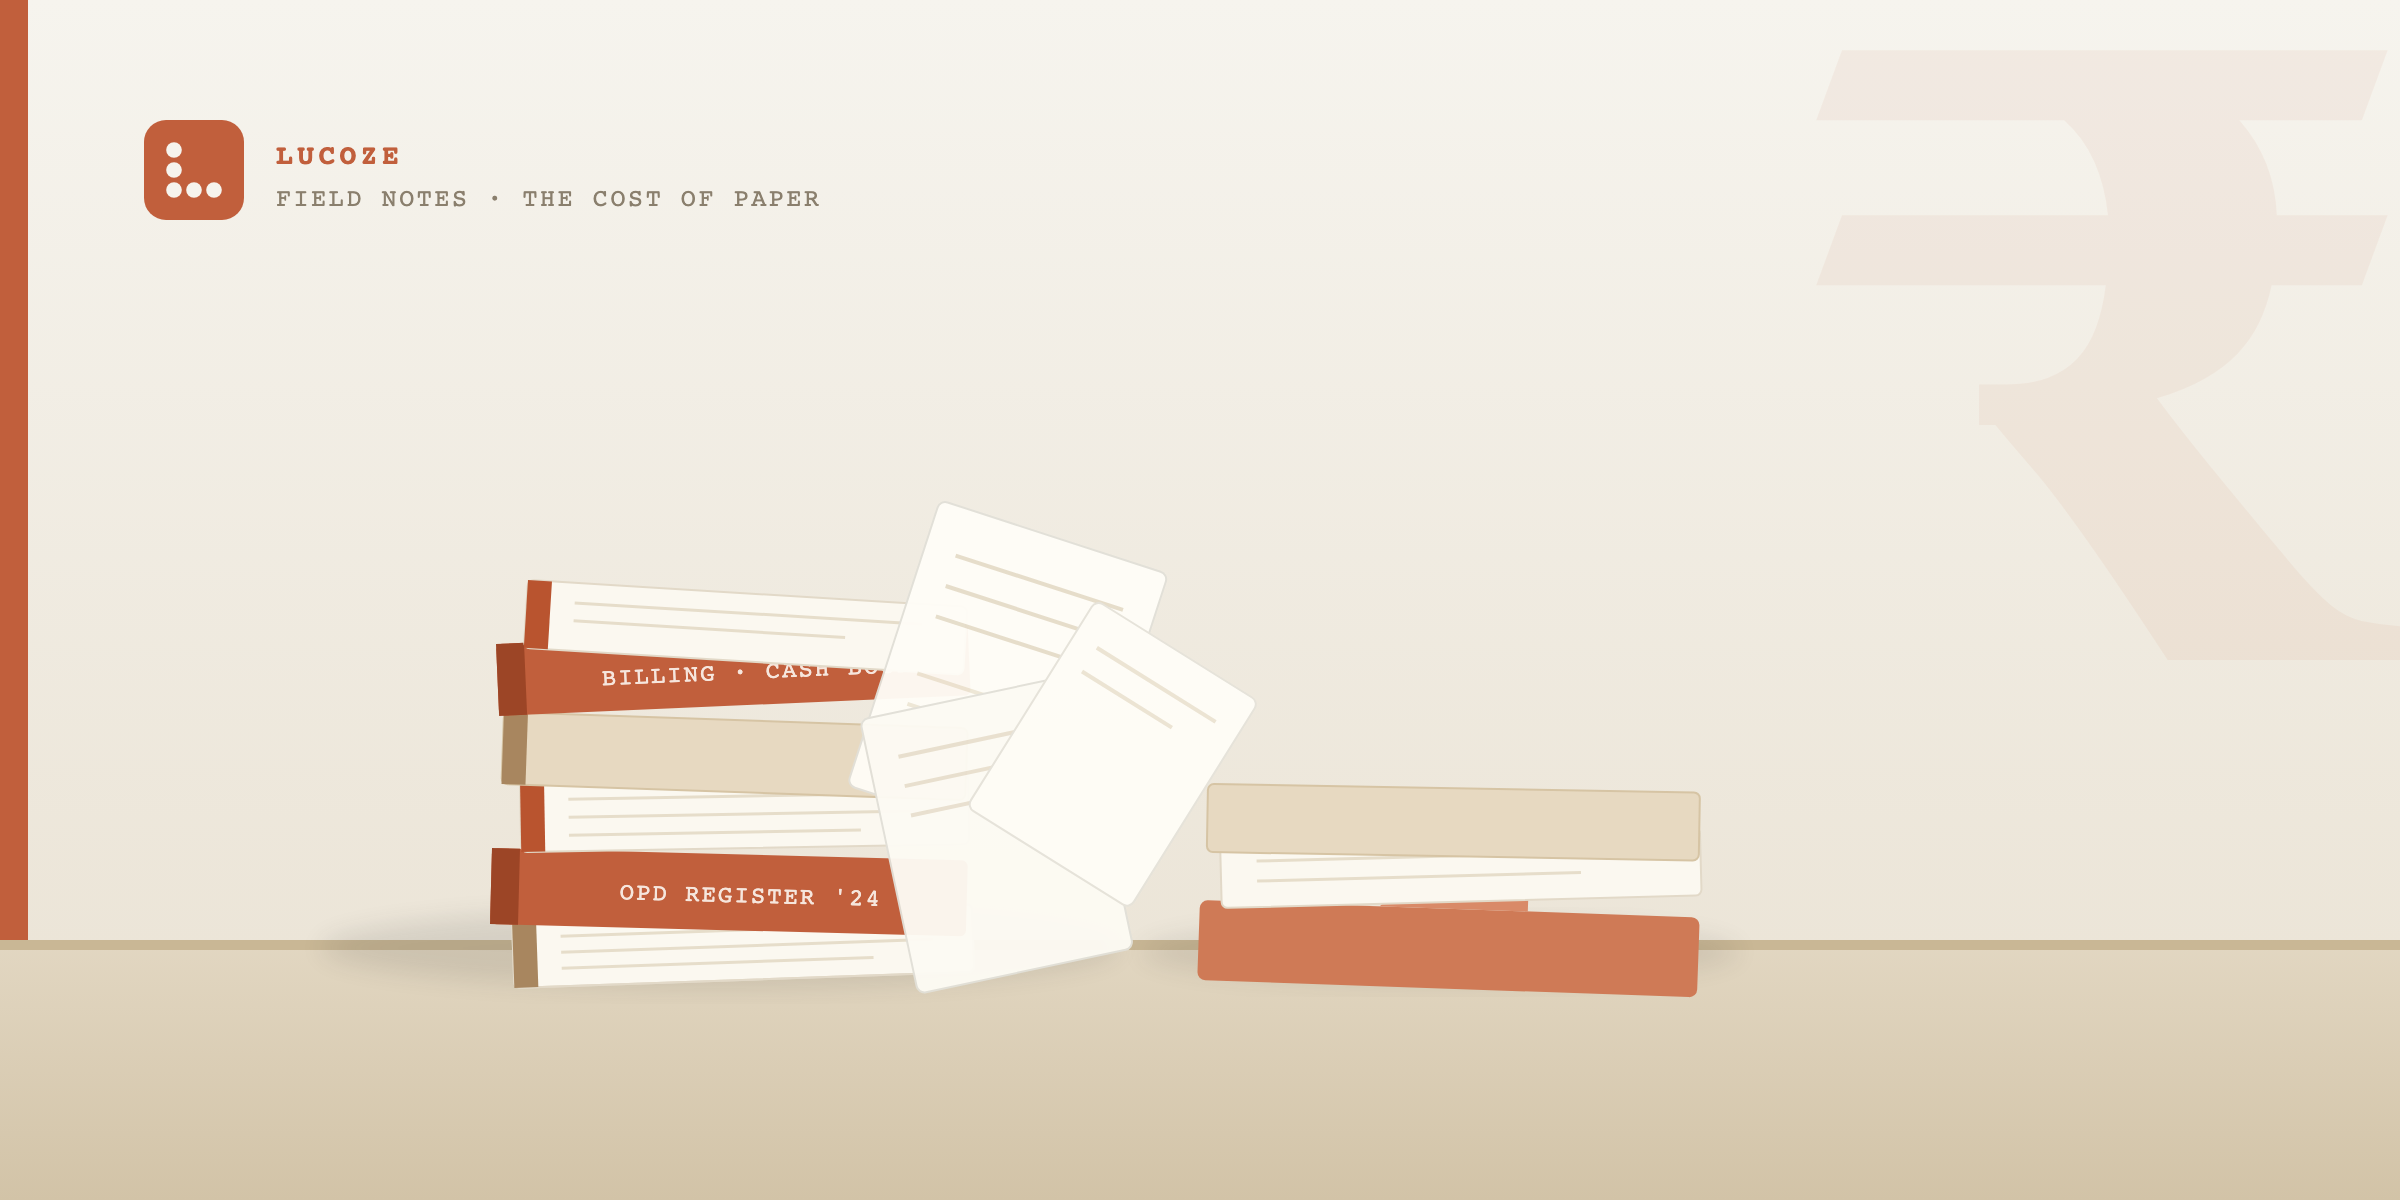
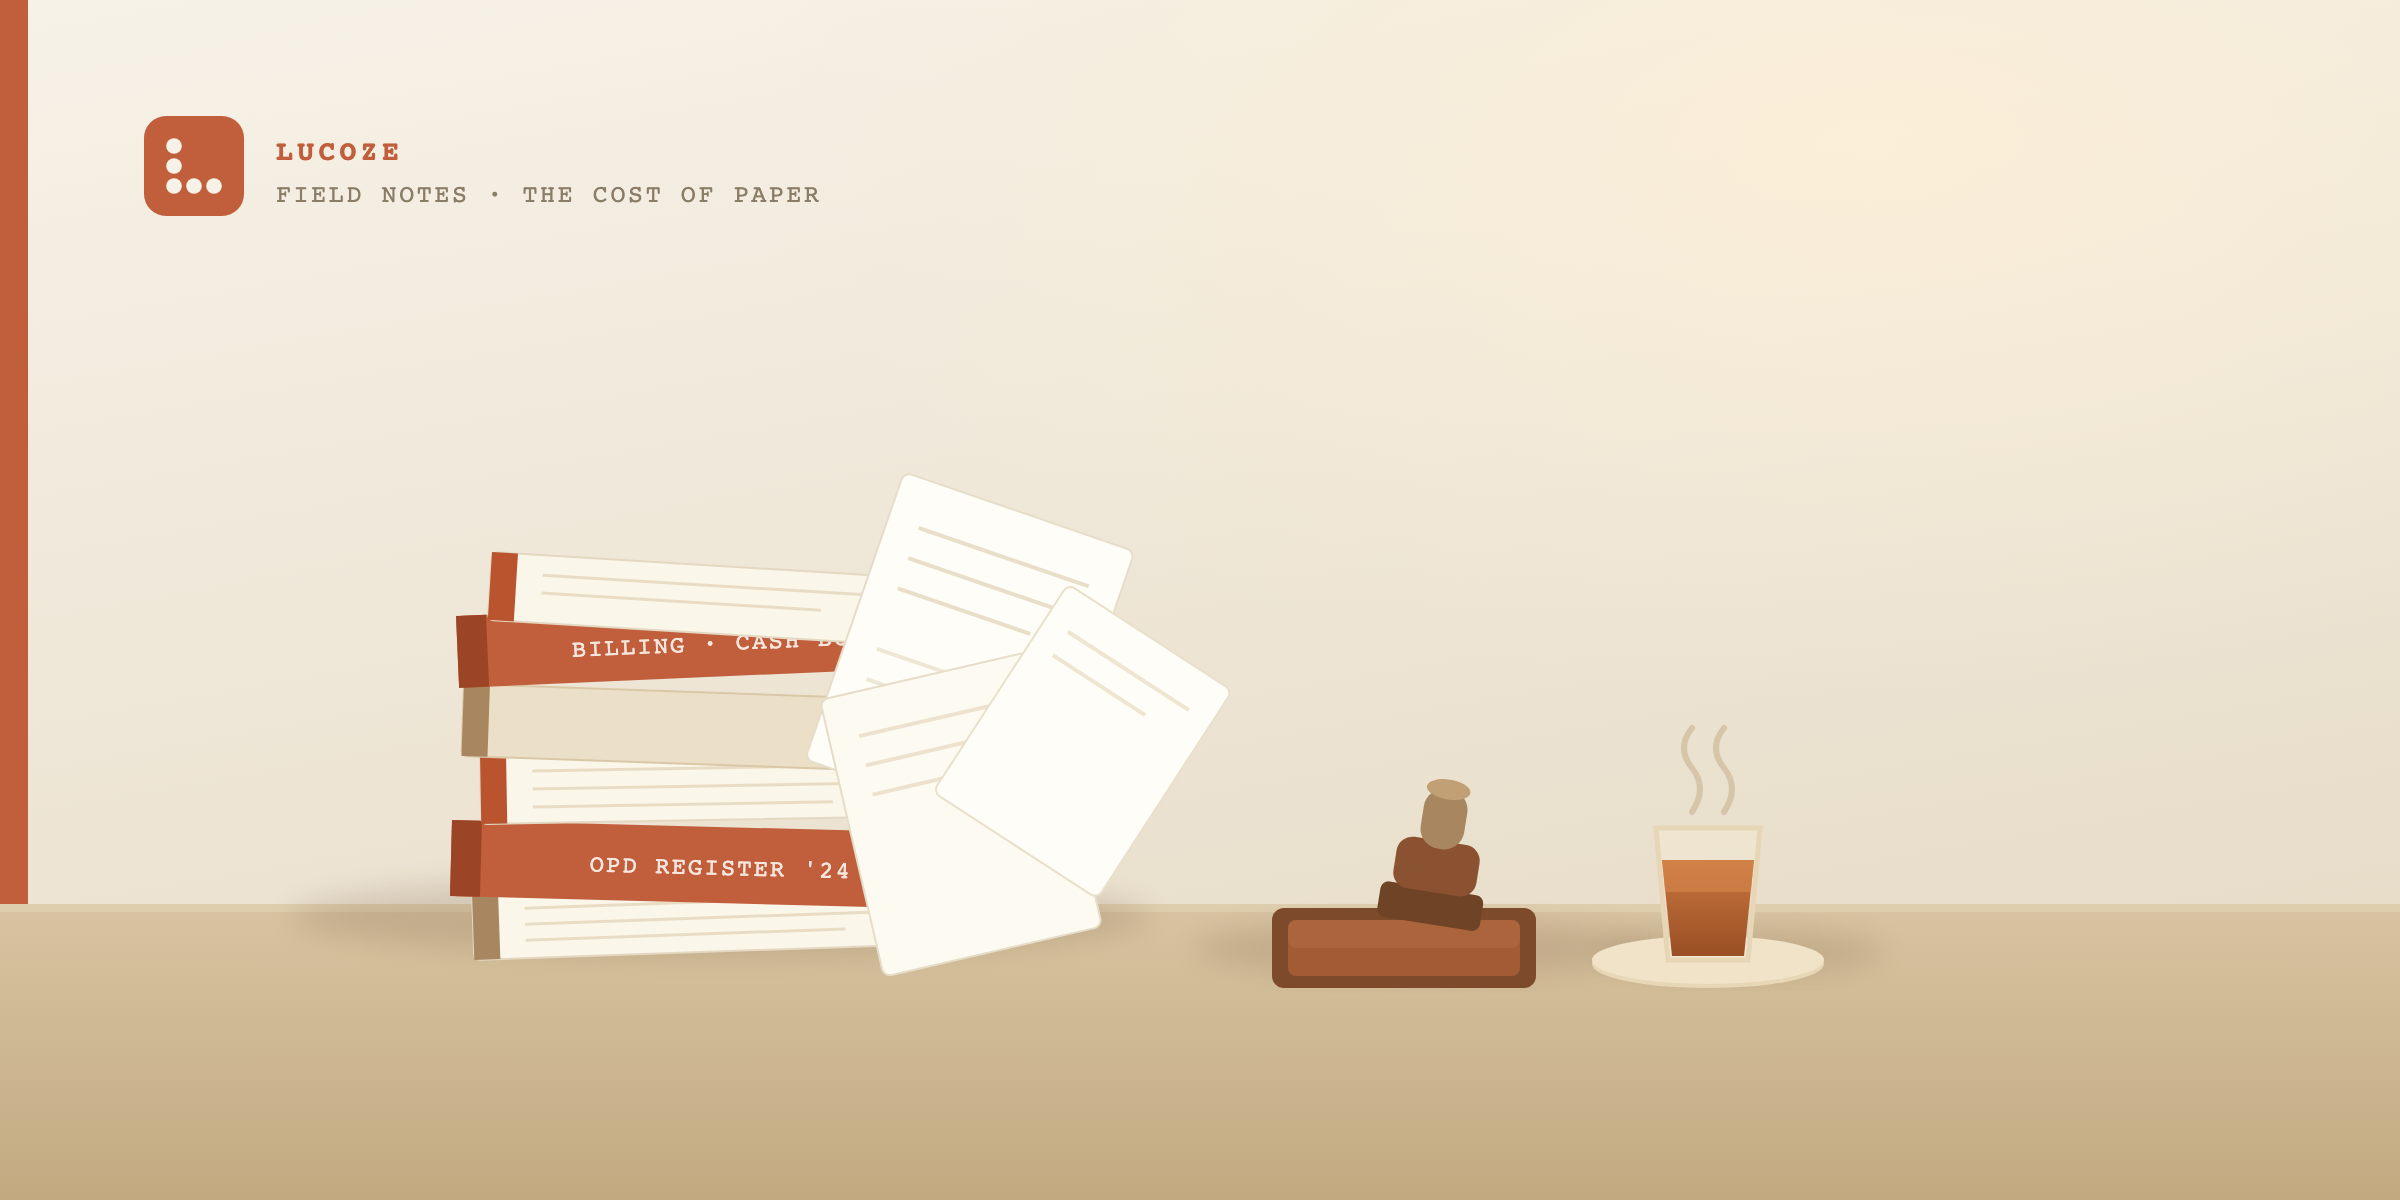
style(blog): warmer, balanced Lane-B illustration (chai + stamp vignette)
Window-light glow, cohesive desk vignette (registers -> spilling records ->
rubber stamp -> cutting-chai glass with steam) + intentional breathing room.
Ties to the post's 'over chai' voice. Re-rendered hero PNG.

diff --git a/scripts/hero-render/hidden-cost-of-paper.source.html b/scripts/hero-render/hidden-cost-of-paper.source.html
@@ -22,48 +22,43 @@
 				width="1200"
 				height="600"
 				role="img"
-				aria-label="A precarious stack of paper registers and loose patient records on a clinic desk — the hidden cost of paper."
+				aria-label="A clinic desk at dusk: a precarious stack of paper OPD registers and cash books with loose records slipping out, a rubber stamp on an ink pad, and a glass of chai — the hidden cost of running a clinic on paper."
 			>
 				<defs>
-					<linearGradient id="bg" x1="0" y1="0" x2="0" y2="1">
-						<stop offset="0" stop-color="#f6f4ee" />
-						<stop offset="1" stop-color="#e9e1d2" />
+					<linearGradient id="bg" x1="0" y1="0" x2="0.35" y2="1">
+						<stop offset="0" stop-color="#f7f2e8" />
+						<stop offset="1" stop-color="#e7dcc8" />
 					</linearGradient>
+					<radialGradient id="glow" cx="0.78" cy="0.12" r="0.85">
+						<stop offset="0" stop-color="#fcefd8" stop-opacity="0.9" />
+						<stop offset="0.55" stop-color="#f7ecd7" stop-opacity="0" />
+					</radialGradient>
 					<linearGradient id="desk" x1="0" y1="0" x2="0" y2="1">
-						<stop offset="0" stop-color="#e2d7c2" />
-						<stop offset="1" stop-color="#d2c3a7" />
+						<stop offset="0" stop-color="#d8c4a2" />
+						<stop offset="1" stop-color="#c2a980" />
 					</linearGradient>
-					<filter id="soft" x="-20%" y="-20%" width="140%" height="140%">
-						<feGaussianBlur stdDeviation="6" />
+					<linearGradient id="chai" x1="0" y1="0" x2="0" y2="1">
+						<stop offset="0" stop-color="#c8763f" />
+						<stop offset="1" stop-color="#9a4f24" />
+					</linearGradient>
+					<filter id="soft" x="-30%" y="-30%" width="160%" height="160%">
+						<feGaussianBlur stdDeviation="7" />
 					</filter>
 				</defs>
 
-				<!-- ground -->
+				<!-- ground + warm window light -->
 				<rect width="1200" height="600" fill="url(#bg)" />
+				<rect width="1200" height="600" fill="url(#glow)" />
 				<rect x="0" y="0" width="14" height="600" fill="#c15f3c" />
 
-				<!-- faint rupee watermark: the 'cost' -->
-				<text
-					x="1050"
-					y="330"
-					font-family="Georgia, serif"
-					font-size="440"
-					font-weight="700"
-					fill="#c15f3c"
-					opacity="0.06"
-					text-anchor="middle"
-				>
-					₹
-				</text>
-
 				<!-- eyebrow: vault mark + label -->
-				<g transform="translate(72 60)">
+				<g transform="translate(72 58)">
 					<rect x="0" y="0" width="50" height="50" rx="11" ry="11" fill="#c15f3c" />
-					<circle cx="15" cy="15" r="3.9" fill="#f6f4ee" />
-					<circle cx="15" cy="25" r="3.9" fill="#f6f4ee" />
-					<circle cx="15" cy="35" r="3.9" fill="#f6f4ee" />
-					<circle cx="25" cy="35" r="3.9" fill="#f6f4ee" />
-					<circle cx="35" cy="35" r="3.9" fill="#f6f4ee" />
+					<circle cx="15" cy="15" r="3.9" fill="#f7f2e8" />
+					<circle cx="15" cy="25" r="3.9" fill="#f7f2e8" />
+					<circle cx="15" cy="35" r="3.9" fill="#f7f2e8" />
+					<circle cx="25" cy="35" r="3.9" fill="#f7f2e8" />
+					<circle cx="35" cy="35" r="3.9" fill="#f7f2e8" />
 					<text
 						x="66"
 						y="22"
@@ -81,52 +76,59 @@
 						font-family="'JetBrains Mono', monospace"
 						font-size="12.5"
 						letter-spacing="1.3"
-						fill="#8a7f6d"
+						fill="#8a7d68"
 					>
 						FIELD NOTES · THE COST OF PAPER
 					</text>
 				</g>
 
 				<!-- desk surface -->
-				<rect x="0" y="470" width="1200" height="130" fill="url(#desk)" />
-				<rect x="0" y="470" width="1200" height="5" fill="#c9b795" />
+				<rect x="0" y="452" width="1200" height="148" fill="url(#desk)" />
+				<rect x="0" y="452" width="1200" height="4" fill="#e3d3b3" opacity="0.7" />
 
-				<!-- shadows -->
+				<!-- soft contact shadows -->
 				<ellipse
 					cx="360"
-					cy="474"
-					rx="200"
+					cy="458"
+					rx="215"
 					ry="20"
-					fill="#1f1d1a"
-					opacity="0.10"
+					fill="#5a3b22"
+					opacity="0.16"
 					filter="url(#soft)"
 				/>
 				<ellipse
-					cx="720"
+					cx="712"
+					cy="474"
+					rx="115"
+					ry="14"
+					fill="#5a3b22"
+					opacity="0.15"
+					filter="url(#soft)"
+				/>
+				<ellipse
+					cx="872"
 					cy="476"
-					rx="150"
-					ry="16"
-					fill="#1f1d1a"
-					opacity="0.09"
+					rx="70"
+					ry="12"
+					fill="#5a3b22"
+					opacity="0.14"
 					filter="url(#soft)"
 				/>
 
-				<!-- tall register stack (slightly askew, precarious) -->
-				<g transform="translate(250 210)">
-					<!-- each register: cover + page edge -->
+				<!-- tall register stack (askew, precarious) -->
+				<g transform="translate(230 196)">
 					<g transform="translate(6 250) rotate(-2)">
-						<rect x="0" y="0" width="230" height="34" rx="3" fill="#fbf8f0" stroke="#e2d9c8" />
-						<rect x="0" y="0" width="230" height="34" rx="3" fill="none" stroke="#e2d9c8" />
-						<rect x="0" y="0" width="12" height="34" fill="#a8865f" />
-						<line x1="24" y1="9" x2="210" y2="9" stroke="#e6ddca" stroke-width="1.5" />
-						<line x1="24" y1="17" x2="210" y2="17" stroke="#e6ddca" stroke-width="1.5" />
-						<line x1="24" y1="25" x2="180" y2="25" stroke="#e6ddca" stroke-width="1.5" />
+						<rect x="0" y="0" width="240" height="34" rx="3" fill="#fbf6ea" stroke="#e4d8c2" />
+						<rect x="0" y="0" width="13" height="34" fill="#a8865f" />
+						<line x1="26" y1="9" x2="216" y2="9" stroke="#e9dcc4" stroke-width="1.5" />
+						<line x1="26" y1="17" x2="216" y2="17" stroke="#e9dcc4" stroke-width="1.5" />
+						<line x1="26" y1="25" x2="186" y2="25" stroke="#e9dcc4" stroke-width="1.5" />
 					</g>
 					<g transform="translate(-4 214) rotate(1.5)">
-						<rect x="0" y="0" width="238" height="38" rx="3" fill="#c15f3c" />
-						<rect x="0" y="0" width="14" height="38" fill="#9c4526" />
+						<rect x="0" y="0" width="248" height="38" rx="3" fill="#c15f3c" />
+						<rect x="0" y="0" width="15" height="38" fill="#9c4526" />
 						<text
-							x="130"
+							x="135"
 							y="24"
 							font-family="'JetBrains Mono', monospace"
 							font-size="12"
@@ -138,21 +140,21 @@
 						</text>
 					</g>
 					<g transform="translate(10 180) rotate(-1)">
-						<rect x="0" y="0" width="224" height="36" rx="3" fill="#fbf8f0" stroke="#e2d9c8" />
-						<rect x="0" y="0" width="12" height="36" fill="#b9542f" />
-						<line x1="24" y1="10" x2="204" y2="10" stroke="#e6ddca" stroke-width="1.5" />
-						<line x1="24" y1="19" x2="204" y2="19" stroke="#e6ddca" stroke-width="1.5" />
-						<line x1="24" y1="28" x2="170" y2="28" stroke="#e6ddca" stroke-width="1.5" />
+						<rect x="0" y="0" width="232" height="36" rx="3" fill="#fbf6ea" stroke="#e4d8c2" />
+						<rect x="0" y="0" width="13" height="36" fill="#b9542f" />
+						<line x1="26" y1="10" x2="212" y2="10" stroke="#e9dcc4" stroke-width="1.5" />
+						<line x1="26" y1="19" x2="212" y2="19" stroke="#e9dcc4" stroke-width="1.5" />
+						<line x1="26" y1="28" x2="176" y2="28" stroke="#e9dcc4" stroke-width="1.5" />
 					</g>
 					<g transform="translate(2 146) rotate(2)">
-						<rect x="0" y="0" width="232" height="36" rx="3" fill="#e7d9c1" stroke="#d6c4a4" />
-						<rect x="0" y="0" width="12" height="36" fill="#a8865f" />
+						<rect x="0" y="0" width="240" height="36" rx="3" fill="#ecdfc7" stroke="#d9c8a7" />
+						<rect x="0" y="0" width="13" height="36" fill="#a8865f" />
 					</g>
 					<g transform="translate(-2 112) rotate(-2.5)">
-						<rect x="0" y="0" width="236" height="36" rx="3" fill="#c15f3c" />
-						<rect x="0" y="0" width="14" height="36" fill="#9c4526" />
+						<rect x="0" y="0" width="244" height="36" rx="3" fill="#c15f3c" />
+						<rect x="0" y="0" width="15" height="36" fill="#9c4526" />
 						<text
-							x="130"
+							x="135"
 							y="23"
 							font-family="'JetBrains Mono', monospace"
 							font-size="12"
@@ -163,50 +165,66 @@
 							BILLING · CASH BOOK
 						</text>
 					</g>
-					<g transform="translate(14 80) rotate(3.5)">
-						<rect x="0" y="0" width="220" height="34" rx="3" fill="#fbf8f0" stroke="#e2d9c8" />
-						<rect x="0" y="0" width="12" height="34" fill="#b9542f" />
-						<line x1="24" y1="10" x2="198" y2="10" stroke="#e6ddca" stroke-width="1.5" />
-						<line x1="24" y1="19" x2="160" y2="19" stroke="#e6ddca" stroke-width="1.5" />
+					<g transform="translate(16 80) rotate(3.5)">
+						<rect x="0" y="0" width="226" height="34" rx="3" fill="#fbf6ea" stroke="#e4d8c2" />
+						<rect x="0" y="0" width="13" height="34" fill="#b9542f" />
+						<line x1="26" y1="10" x2="204" y2="10" stroke="#e9dcc4" stroke-width="1.5" />
+						<line x1="26" y1="19" x2="166" y2="19" stroke="#e9dcc4" stroke-width="1.5" />
 					</g>
 				</g>
 
-				<!-- shorter folder stack, right -->
-				<g transform="translate(600 300)">
-					<g transform="translate(0 150) rotate(2)">
-						<rect x="0" y="0" width="250" height="40" rx="4" fill="#cf7a56" />
-						<path d="M0 0 h90 l14 -16 h60 v16" fill="#d98a68" />
+				<!-- loose sheets slipping out: the leak -->
+				<g>
+					<g transform="translate(452 236) rotate(19)">
+						<rect x="0" y="0" width="122" height="152" rx="4" fill="#fffdf7" stroke="#e6ddc9" />
+						<line x1="16" y1="24" x2="106" y2="24" stroke="#e9dfc9" stroke-width="2" />
+						<line x1="16" y1="40" x2="106" y2="40" stroke="#e9dfc9" stroke-width="2" />
+						<line x1="16" y1="56" x2="86" y2="56" stroke="#e9dfc9" stroke-width="2" />
+						<line x1="16" y1="88" x2="106" y2="88" stroke="#efe7d5" stroke-width="2" />
+						<line x1="16" y1="104" x2="72" y2="104" stroke="#efe7d5" stroke-width="2" />
 					</g>
-					<g transform="translate(10 120) rotate(-1.5)">
-						<rect x="0" y="0" width="240" height="34" rx="3" fill="#fbf8f0" stroke="#e2d9c8" />
-						<line x1="18" y1="11" x2="215" y2="11" stroke="#e6ddca" stroke-width="1.5" />
-						<line x1="18" y1="21" x2="180" y2="21" stroke="#e6ddca" stroke-width="1.5" />
+					<g transform="translate(410 350) rotate(-13)">
+						<rect x="0" y="0" width="112" height="142" rx="4" fill="#fdfaf2" stroke="#e6ddc9" />
+						<line x1="15" y1="22" x2="97" y2="22" stroke="#ece2cd" stroke-width="2" />
+						<line x1="15" y1="37" x2="97" y2="37" stroke="#ece2cd" stroke-width="2" />
+						<line x1="15" y1="52" x2="74" y2="52" stroke="#ece2cd" stroke-width="2" />
 					</g>
-					<g transform="translate(4 92) rotate(1)">
-						<rect x="0" y="0" width="246" height="34" rx="3" fill="#e7d9c1" stroke="#d6c4a4" />
+					<g transform="translate(534 292) rotate(33)">
+						<rect x="0" y="0" width="98" height="124" rx="4" fill="#fffdf7" stroke="#e9e0cc" />
+						<line x1="13" y1="20" x2="85" y2="20" stroke="#efe6d2" stroke-width="2" />
+						<line x1="13" y1="34" x2="68" y2="34" stroke="#efe6d2" stroke-width="2" />
 					</g>
 				</g>
 
-				<!-- loose sheets slipping / falling: the leak -->
-				<g opacity="0.96">
-					<g transform="translate(470 250) rotate(18)">
-						<rect x="0" y="0" width="120" height="150" rx="4" fill="#fffdf7" stroke="#e2e0d8" />
-						<line x1="16" y1="24" x2="104" y2="24" stroke="#e6ddca" stroke-width="2" />
-						<line x1="16" y1="40" x2="104" y2="40" stroke="#e6ddca" stroke-width="2" />
-						<line x1="16" y1="56" x2="84" y2="56" stroke="#e6ddca" stroke-width="2" />
-						<line x1="16" y1="86" x2="104" y2="86" stroke="#eee7d6" stroke-width="2" />
-						<line x1="16" y1="102" x2="70" y2="102" stroke="#eee7d6" stroke-width="2" />
+				<!-- ink pad + rubber stamp (clinic paperwork ritual) -->
+				<g transform="translate(636 408)">
+					<!-- ink pad -->
+					<rect x="0" y="46" width="132" height="40" rx="6" fill="#7d4a2c" />
+					<rect x="8" y="52" width="116" height="28" rx="4" fill="#a35b34" />
+					<rect x="8" y="52" width="116" height="14" rx="4" fill="#b06a41" opacity="0.6" />
+					<!-- stamp: handle + base, leaning -->
+					<g transform="translate(70 -6) rotate(9)">
+						<rect x="-9" y="40" width="52" height="18" rx="4" fill="#6f4326" />
+						<rect x="-4" y="16" width="42" height="26" rx="8" fill="#8a5230" />
+						<rect x="6" y="-10" width="22" height="30" rx="10" fill="#a8865f" />
+						<ellipse cx="17" cy="-10" rx="11" ry="5" fill="#c0a074" />
 					</g>
-					<g transform="translate(430 360) rotate(-12)">
-						<rect x="0" y="0" width="110" height="140" rx="4" fill="#fdfbf4" stroke="#e2e0d8" />
-						<line x1="15" y1="22" x2="95" y2="22" stroke="#e9e0cf" stroke-width="2" />
-						<line x1="15" y1="37" x2="95" y2="37" stroke="#e9e0cf" stroke-width="2" />
-						<line x1="15" y1="52" x2="72" y2="52" stroke="#e9e0cf" stroke-width="2" />
-					</g>
-					<g transform="translate(548 300) rotate(32)">
-						<rect x="0" y="0" width="96" height="122" rx="4" fill="#fffdf7" stroke="#e6e3da" />
-						<line x1="13" y1="20" x2="83" y2="20" stroke="#ece4d3" stroke-width="2" />
-						<line x1="13" y1="34" x2="66" y2="34" stroke="#ece4d3" stroke-width="2" />
+				</g>
+
+				<!-- cutting-chai glass + steam (the version we'd give over chai) -->
+				<g transform="translate(820 384)">
+					<!-- saucer -->
+					<ellipse cx="34" cy="98" rx="58" ry="12" fill="#e7d7b6" />
+					<ellipse cx="34" cy="96" rx="58" ry="12" fill="#f0e3c8" />
+					<!-- glass -->
+					<path d="M8 30 L60 30 L54 96 L14 96 Z" fill="#f3ead6" opacity="0.55" />
+					<path d="M11 46 L57 46 L52 94 L16 94 Z" fill="url(#chai)" />
+					<path d="M11 46 L57 46 L55.5 62 L12.5 62 Z" fill="#d98a4e" opacity="0.55" />
+					<path d="M8 30 L60 30 L54 96 L14 96 Z" fill="none" stroke="#e6d6b6" stroke-width="2.5" />
+					<!-- steam -->
+					<g stroke="#c9b48f" stroke-width="3" fill="none" stroke-linecap="round" opacity="0.6">
+						<path d="M26 22 q8 -12 0 -22 q-8 -10 0 -20" />
+						<path d="M42 22 q8 -12 0 -22 q-8 -10 0 -20" />
 					</g>
 				</g>
 			</svg>
